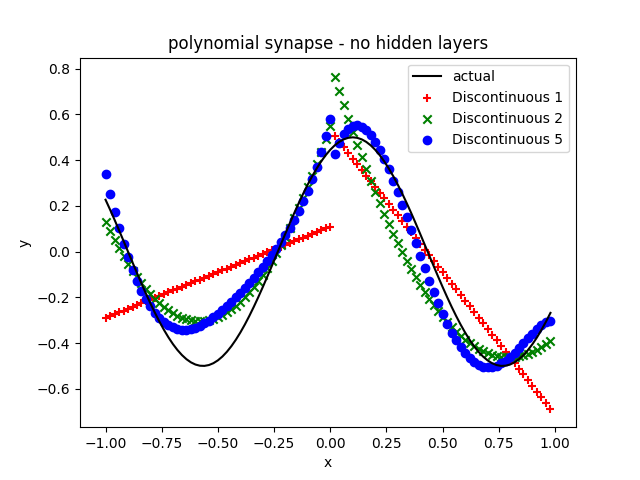
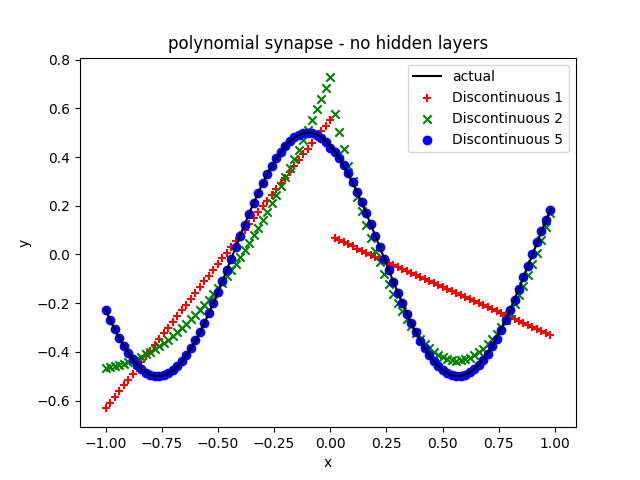
Fixed bugs in continuous and discontinuous case.

diff --git a/snovalleyai_piecewise_polynomial_layers/Functions.py b/snovalleyai_piecewise_polynomial_layers/Functions.py
@@ -1,6 +1,6 @@
 import tensorflow as tf
 import numpy as np
-
+import sys
 
 def swapAxes(x) :
     return tf.transpose(x,[1,2,0])
@@ -114,40 +114,55 @@ The functions below should not be called directly, instead call the wrappers abo
 def basis1DG1(x) :
     xr = tf.where(x>0,2.0*(x-0.5),0*x)
     xl = tf.where(x<=0,2.0*(x+0.5),0*x)
+    pos = tf.where(x>0,1.0,0.0)
+    neg = tf.where(x<=0,1.0,0.0)
 
-    res1 = tf.convert_to_tensor([xr*0.0, xr*0.0, -0.5*(xr-1.0),0.5*(xr+1.0)])
-    res2 = tf.convert_to_tensor([-0.5*(xl-1.0),0.5*(xl+1.0),xl*0.0,xl*0.0])
+    res1 = pos*tf.convert_to_tensor([xr*0.0, xr*0.0, -0.5*(xr-1.0),0.5*(xr+1.0)])
+    res2 = neg*tf.convert_to_tensor([-0.5*(xl-1.0),0.5*(xl+1.0),xl*0.0,xl*0.0])
 
     return res1 + res2
 
 def basis1CG1(x) :
     xr = tf.where(x>0,2.0*(x-0.5),0*x)
     xl = tf.where(x<=0,2.0*(x+0.5),0*x)
+    pos = tf.where(x>0,1.0,0.0)
+    neg = tf.where(x<=0,1.0,0.0)
 
-    res1 = tf.convert_to_tensor([xr*0.0, -0.5*(xr-1.0),0.5*(xr+1.0)])
-    res2 = tf.convert_to_tensor([-0.5*(xl-1.0),0.5*(xl+1.0), xl*0.0])
-
-    return res1 + res2
+    #print('damd should be in here')
+    res1 = pos*tf.convert_to_tensor([xr*0.0+1e-6, -0.5*(xr-1.0),0.5*(xr+1.0)])
+    res2 = neg*tf.convert_to_tensor([-0.5*(xl-1.0),0.5*(xl+1.0), xl*0.0+1e-6])
+    #res = tf.convert_to_tensor([-0.5*(xl-1.0), 0.5*(xl+1.0)-0.5*(xr-1.0),0.5*(xr+1.0)]) 
+    #tf.print(x, output_stream=sys.stderr)
+    #tf.print(res1+res2, output_stream=sys.stdout)
+    return res1+res2
+    #return res1 + res2
 
 def basis2CG1(x) :
     xr = tf.where(x>0,2.0*(x-0.5),0*x)
     xl = tf.where(x<=0,2.0*(x+0.5),0*x)
+    pos = tf.where(x>0,1.0,0.0)
+    neg = tf.where(x<=0,1.0,0.0)
 
-    res1 = tf.convert_to_tensor([x*0.0, x*0.0, 0.5*xr*(xr-1.0),-1.0*(xr+1)*(xr-1), 0.5*xr*(xr+1.0)])
-    res2 = tf.convert_to_tensor([0.5*xl*(xl-1.0),-1.0*(xl+1)*(xl-1),0.5*xl*(xl+1.0),x*0.0,x*0.0])
+    res1 = pos*tf.convert_to_tensor([x*0.0, x*0.0, 0.5*xr*(xr-1.0),-1.0*(xr+1)*(xr-1), 0.5*xr*(xr+1.0)])
+    res2 = neg*tf.convert_to_tensor([0.5*xl*(xl-1.0),-1.0*(xl+1)*(xl-1),0.5*xl*(xl+1.0),x*0.0,x*0.0])
 
     return res1+res2
 
 def basis2DG1(x) :
     xr = tf.where(x>0,2.0*(x-0.5),0*x)
     xl = tf.where(x<=0,2.0*(x+0.5),0*x)
-    
-    res1 = tf.convert_to_tensor([x*0.0, x*0.0, x*0.0, 0.5*xr*(xr-1.0),-1.0*(xr+1)*(xr-1), 0.5*xr*(xr+1.0)])
-    res2 = tf.convert_to_tensor([0.5*xl*(xl-1.0),-1.0*(xl+1)*(xl-1),0.5*xl*(xl+1.0),x*0.0,x*0.0,x*0.0])
+    pos = tf.where(x>0,1.0,0.0)
+    neg = tf.where(x<=0,1.0,0.0)
+
+    res1 = pos*tf.convert_to_tensor([x*0.0, x*0.0, x*0.0, 0.5*xr*(xr-1.0),-1.0*(xr+1)*(xr-1), 0.5*xr*(xr+1.0)])
+    res2 = neg*tf.convert_to_tensor([0.5*xl*(xl-1.0),-1.0*(xl+1)*(xl-1),0.5*xl*(xl+1.0),x*0.0,x*0.0,x*0.0])
     
     return res1 + res2
 
 def basis5DG1(x) :
+    pos = tf.where(x>0,1.0,0.0)
+    neg = tf.where(x<=0,1.0,0.0)
+
     xr = tf.where(x>0,2.0*(x-0.5),0*x)
 
     eta = xr
@@ -155,7 +170,7 @@ def basis5DG1(x) :
     powEta3 = eta * powEta2
     powEta4 = eta * powEta3
     powEta5 = eta * powEta4
-    res1 = tf.convert_to_tensor([0*eta, 0*eta, 0*eta, 0*eta, 0*eta, 0*eta, (0.1 - 0.1 * eta - 1.2 * powEta2 + 1.2 * powEta3 + 1.6 * powEta4 - 1.6 * powEta5),
+    res1 = pos*tf.convert_to_tensor([0*eta, 0*eta, 0*eta, 0*eta, 0*eta, 0*eta, (0.1 - 0.1 * eta - 1.2 * powEta2 + 1.2 * powEta3 + 1.6 * powEta4 - 1.6 * powEta5),
                 3.2 * powEta5 - 2.588854381999832 * powEta4 - 3.505572809000084 * powEta3 +
                 2.83606797749979 * powEta2 + 0.3055728090000842 * eta - 0.247213595499958,
                 -3.2 * powEta5 + 0.9888543819998319 * powEta4 + 5.294427190999916 * powEta3 -
@@ -174,7 +189,7 @@ def basis5DG1(x) :
     powEta3 = eta * powEta2
     powEta4 = eta * powEta3
     powEta5 = eta * powEta4
-    res2 = tf.convert_to_tensor([(0.1 - 0.1 * eta - 1.2 * powEta2 + 1.2 * powEta3 + 1.6 * powEta4 - 1.6 * powEta5),
+    res2 = neg*tf.convert_to_tensor([(0.1 - 0.1 * eta - 1.2 * powEta2 + 1.2 * powEta3 + 1.6 * powEta4 - 1.6 * powEta5),
                 3.2 * powEta5 - 2.588854381999832 * powEta4 - 3.505572809000084 * powEta3 +
                 2.83606797749979 * powEta2 + 0.3055728090000842 * eta - 0.247213595499958,
                 -3.2 * powEta5 + 0.9888543819998319 * powEta4 + 5.294427190999916 * powEta3 -
@@ -188,7 +203,10 @@ def basis5DG1(x) :
     return res1+res2
 
 def basis5CG1(x) :
-
+    
+    pos = tf.where(x>0,1.0,0.0)
+    neg = tf.where(x<=0,1.0,0.0)
+    
     xr = tf.where(x>0,2.0*(x-0.5),0*x)
     xl = tf.where(x<=0,2.0*(x+0.5),0*x)
 
@@ -198,7 +216,7 @@ def basis5CG1(x) :
     powEta4 = eta * powEta3
     powEta5 = eta * powEta4
 
-    res1 = tf.convert_to_tensor([eta*0, eta*0, eta*0, eta*0, eta*0, (0.1 - 0.1 * eta - 1.2 * powEta2 + 1.2 * powEta3 + 1.6 * powEta4 - 1.6 * powEta5),
+    res1 = pos*tf.convert_to_tensor([eta*0, eta*0, eta*0, eta*0, eta*0, (0.1 - 0.1 * eta - 1.2 * powEta2 + 1.2 * powEta3 + 1.6 * powEta4 - 1.6 * powEta5),
         3.2 * powEta5 - 2.588854381999832 * powEta4 - 3.505572809000084 * powEta3 +
         2.83606797749979 * powEta2 + 0.3055728090000842 * eta - 0.247213595499958,
         -3.2 * powEta5 + 0.9888543819998319 * powEta4 + 5.294427190999916 * powEta3 -
@@ -215,7 +233,7 @@ def basis5CG1(x) :
     powEta4 = eta * powEta3
     powEta5 = eta * powEta4
 
-    res2 = tf.convert_to_tensor([(0.1 - 0.1 * eta - 1.2 * powEta2 + 1.2 * powEta3 + 1.6 * powEta4 - 1.6 * powEta5),
+    res2 = neg*tf.convert_to_tensor([(0.1 - 0.1 * eta - 1.2 * powEta2 + 1.2 * powEta3 + 1.6 * powEta4 - 1.6 * powEta5),
         3.2 * powEta5 - 2.588854381999832 * powEta4 - 3.505572809000084 * powEta3 +
         2.83606797749979 * powEta2 + 0.3055728090000842 * eta - 0.247213595499958,
         -3.2 * powEta5 + 0.9888543819998319 * powEta4 + 5.294427190999916 * powEta3 -

diff --git a/functionExample.py b/functionExample.py
@@ -25,8 +25,8 @@ modelSetD = [
 
 modelSetC = [
     {'name' : 'Continuous 1', 'func' : poly.b1C},
-    #{'name' : 'Continous 2', 'func' : poly.b2C}, 
-    #{'name' : 'Continuous 5', 'func' : poly.b5C}
+    {'name' : 'Continuous 2', 'func' : poly.b2C}, 
+    {'name' : 'Continuous 5', 'func' : poly.b5C}
     ]
 
 modelSet = [
@@ -52,7 +52,7 @@ for i in range(0, len(thisModelSet)) :
                 loss='mean_squared_error',
                 metrics=['accuracy'])
 
-    model.fit(xTrain, yTrain, epochs=10, batch_size=1)
+    model.fit(xTrain, yTrain, epochs=6, batch_size=1)
     model.evaluate(xTrain, yTrain)
 
     predictions = model.predict(xTest)

diff --git a/mnistExample.py b/mnistExample.py
@@ -7,13 +7,12 @@ x_train, x_test = (x_train / 128.0-1.0), (x_test / 128.0-1.0)
 
 units = 20
 
-basis = poly.b3
+basis = poly.b5C
 
 model = tf.keras.models.Sequential([
   tf.keras.layers.Flatten(input_shape=(28, 28)),
   poly.Polynomial(units, 28*28, basis=basis),
   tf.keras.layers.LayerNormalization(),
-  #tf.keras.layers.Dropout(0.2),
   poly.Polynomial(units, units, basis=basis),
   tf.keras.layers.LayerNormalization(),
   poly.Polynomial(units, units, basis=basis),

diff --git a/README.md b/README.md
@@ -52,9 +52,15 @@ Here is the result for fitting a sin wave with no hidden layers.  There is only 
 
 # Example 2
 
-Same problem, but comparison between 1st 3rd and 5th order discontinuous polynomial synapses.
+Same problem, but comparison between 1st 3rd and 5th order piecewise discontinuous polynomial synapses.
 
 ![](sin5d.png)
+
+# Example 3
+
+Same problem, but comparison between 1st 3rd and 5th order piecewise continuous polynomial synapses.
+
+![](sin5c.png)
 
 # Available polynomial orders
 
@@ -73,15 +79,17 @@ poly.b1D #linear chebyshev (discontinuous pair)
 poly.b2D #quadratic chebyshev (discontinuous pair)
 poly.b5D #5th order chebyshev (discontinuous pair)
 
-## Continuous piecewise polynomials, 2 pieces --- these do not work
-## as they are still discontinuous - believed to be an issue with how
-## tensorflow deals with switches in analytic differentiation.
+## Continuous piecewise polynomials, 2 pieces
 poly.b1D #linear chebyshev (continuous pair)
 poly.b2D #quadratic chebyshev (continuous pair)
 poly.b5D #5th order chebyshev (continuous pair)
 ```
+The layer inside tensorflow is then called (see mnist example above)
+```
+poly.Polynomial(units, input, basis=basis),
+```
+where units is the number of units and input is the size of the input
+
 
 # Notes
-You can achieve high accuracy with very small networks without a non-linearity at the neuron.  The price though, is things are pretty inefficient
-
-Straight polynomials (b1-b5) can be used and each layer increases polynomial order.  Convergence is much better with small batch size - so, unfortunately, for a technique like this to really take off, perhaps we need to wait for something like graphcore CPUs to be come mainstream (which are still fast for small batch).  The discontinuous piecewise polynomials can also work, (b1D-b5D), though I've found the optimizer I used in my own code - using the optimizer "No more pesky learning rates" seems to work much better for these polynomials than the standard Tensorflow optimizers.  Finally, the continuous polynomials (b1C-b5C) are treated as discontinuous by Tensorflow - I think this has do with how the auto differentiator deals with switches as new weights are being added - I'll need to understand this more.
+You can achieve high accuracy with very small networks without a non-linearity at the neuron.
